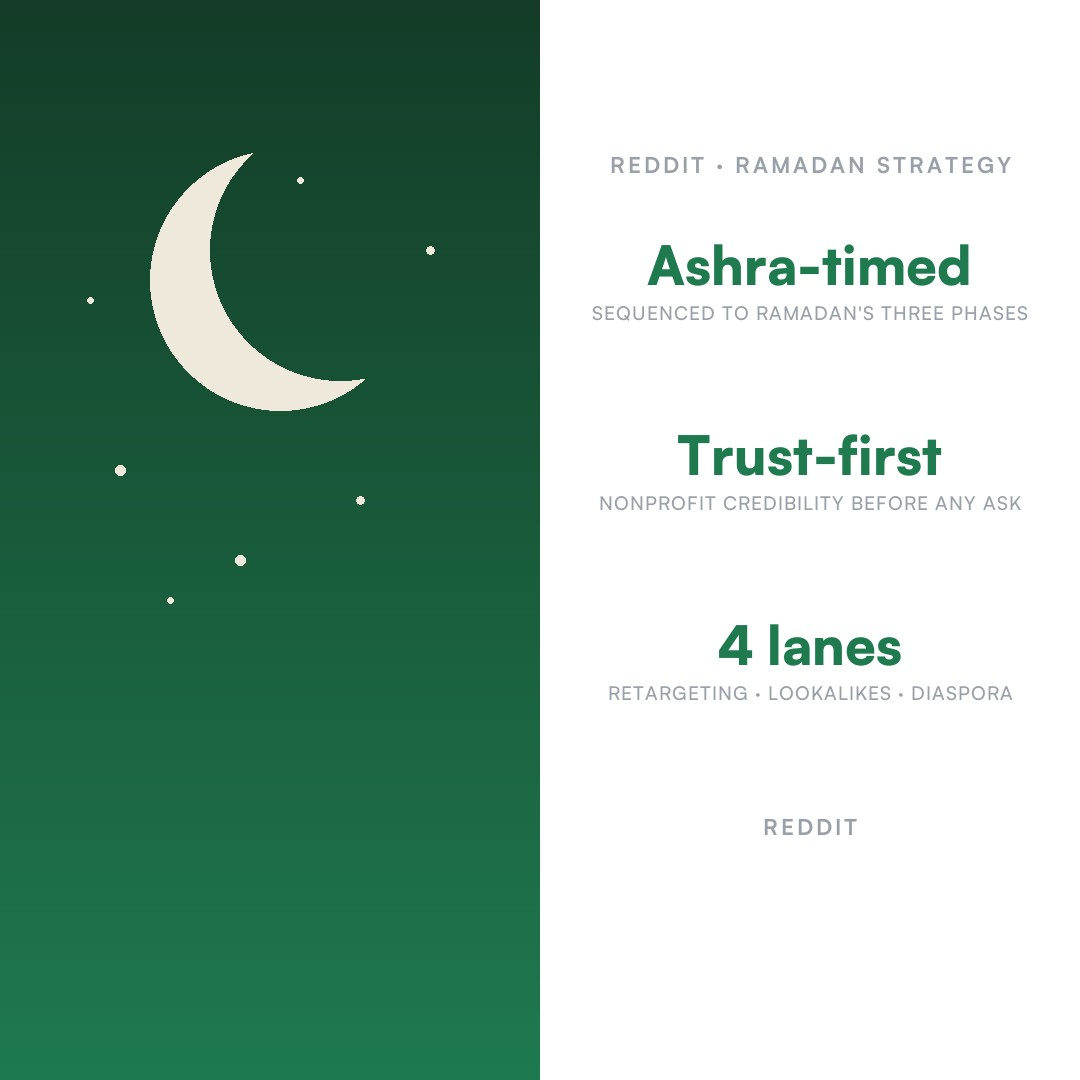
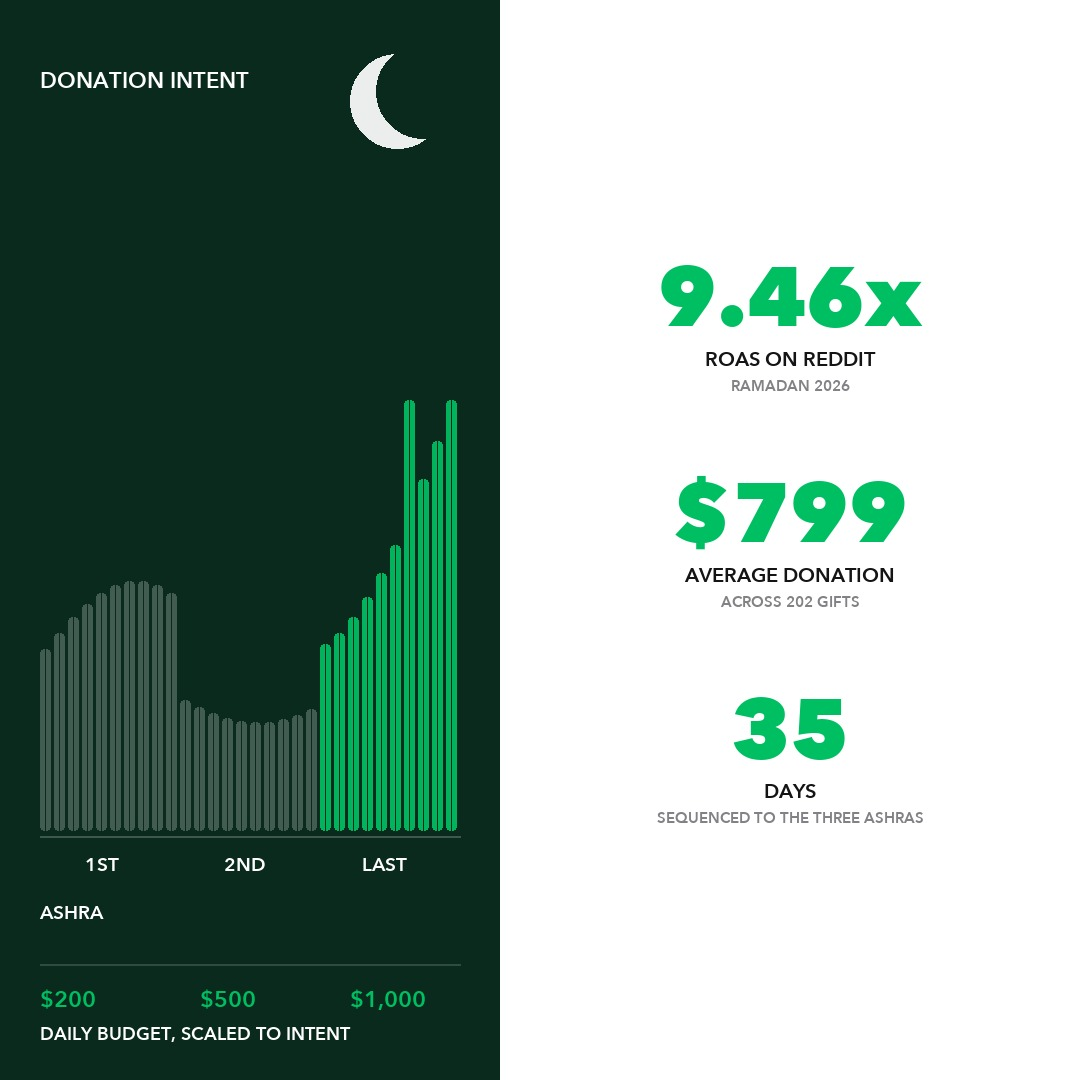
fix: remove every trace of the nonprofit client, and publish the results
The case study said results were the foundation's to publish, so the page
carried no figures at all. The campaign wrap-up gives us the numbers from the
spend we managed, so the page now shows them while the client stays unnamed.

RESULTS ADDED
35 days across Reddit and TikTok, Feb 16 - Mar 22 2026. Reddit $17,060 spend
-> 202 donations, $161,440 raised, 9.46x. TikTok $7,057 -> 26 donations,
$18,089, 2.56x. Blended 7.44x on $24,117. Hero stats and the index card updated
to match. Added a "what we would change" section, because the TikTok gap is
explained by running Reddit statics on a vertical-video platform and that is
worth saying out loud.

CONFIDENTIALITY - three real leaks, all live until now
1. /audit displayed three of the client's ad creatives. One of them reads
   "matched dollar to dollar by The Citizens Foundation USA" and carries their
   donation URL in plain text. Swapped for non-client creatives.
2. those files were named tcf-trust.jpg, tcf-spiritual.jpg, tcf-trust2.jpg and
   sat at guessable public URLs whether or not a page linked them. Deleted,
   along with the .webp variants.
3. the case study's own stylesheet defined --tcf-green and referenced it ten
   times, naming the client in the page source. Renamed --nonprofit-green.

A grep for the client name across every live page now returns nothing.

Cover rebuilt from campaign data rather than their creatives: donation intent
across the three Ashras with the budget ladder underneath, which is the
[…]

diff --git a/work/education-nonprofit.html b/work/education-nonprofit.html
@@ -35,7 +35,7 @@
 </script>
   <style>
     *, *::before, *::after { box-sizing: border-box; margin: 0; padding: 0; }
-    :root { --purple: #5500DD; --dark: #0d0d0d; --gray-500: #6b7280; --gray-200: #e5e7eb; --gray-100: #f3f4f6; --tcf-green: #1F7A4F; }
+    :root { --purple: #5500DD; --dark: #0d0d0d; --gray-500: #6b7280; --gray-200: #e5e7eb; --gray-100: #f3f4f6; --nonprofit-green: #1F7A4F; }
     body { font-family: 'Satoshi', system-ui, sans-serif; color: var(--dark); background: #fff; -webkit-font-smoothing: antialiased; }
     nav { position: sticky; top: 0; z-index: 100; background: rgba(255,255,255,0.95); backdrop-filter: blur(10px); border-bottom: 1px solid var(--gray-200); padding: 0 24px; height: 60px; display: flex; align-items: center; justify-content: space-between; }
     .nav-logo { font-size: 15px; font-variation-settings: "wdth" 125, "wght" 800; color: var(--dark); text-decoration: none; letter-spacing: -0.02em; }
@@ -51,9 +51,9 @@
     .cs-hero { position: relative; overflow: hidden; background: #ffffff; padding: 40px 24px 56px; }
     .cs-hero::before { content:''; position:absolute; top:-60px; left:50%; transform:translateX(-50%); width:1200px; height:560px; background: radial-gradient(ellipse 520px 360px at 28% 45%, rgba(31,122,79,0.16) 0%, transparent 60%), radial-gradient(ellipse 420px 320px at 72% 58%, rgba(85,0,221,0.10) 0%, transparent 62%); pointer-events:none; z-index:0; }
     .cs-hero-inner { position: relative; z-index: 1; max-width: 1100px; margin: 0 auto; display: grid; grid-template-columns: 1fr 1fr; gap: 64px; align-items: center; }
-    .cs-tag { display: inline-block; font-size: 13px; font-weight: 700; letter-spacing: 0.02em; color: var(--tcf-green); background: rgba(31,122,79,0.08); border: 1px solid rgba(31,122,79,0.25); border-radius: 100px; padding: 5px 14px; margin-bottom: 18px; }
+    .cs-tag { display: inline-block; font-size: 13px; font-weight: 700; letter-spacing: 0.02em; color: var(--nonprofit-green); background: rgba(31,122,79,0.08); border: 1px solid rgba(31,122,79,0.25); border-radius: 100px; padding: 5px 14px; margin-bottom: 18px; }
     .cs-hero h1 { font-size: clamp(28px, 3.5vw, 44px); font-weight: 900; color: #0a0a0a; line-height: 1.1; letter-spacing: -0.03em; margin-bottom: 16px; }
-    .cs-hero h1 em { font-family: 'Playfair Display', Georgia, serif; font-style: italic; color: var(--tcf-green); -webkit-text-fill-color: var(--tcf-green); }
+    .cs-hero h1 em { font-family: 'Playfair Display', Georgia, serif; font-style: italic; color: var(--nonprofit-green); -webkit-text-fill-color: var(--nonprofit-green); }
     .cs-hero-desc { font-size: 17px; color: #444; line-height: 1.6; }
     .cs-hero-img { border-radius: 20px; overflow: hidden; box-shadow: 0 20px 60px -20px rgba(0,0,0,0.25); }
     .cs-hero-img img { width: 100%; display: block; }
@@ -63,7 +63,7 @@
     .cs-stat { padding: 30px 24px; background: var(--gray-100); }
     .cs-stat:first-child { border-radius: 16px 0 0 16px; }
     .cs-stat:last-child { border-radius: 0 16px 16px 0; }
-    .cs-stat .num { font-size: clamp(22px, 2.4vw, 30px); font-weight: 900; letter-spacing: -0.02em; color: var(--tcf-green); display: block; margin-bottom: 6px; }
+    .cs-stat .num { font-size: clamp(22px, 2.4vw, 30px); font-weight: 900; letter-spacing: -0.02em; color: var(--nonprofit-green); display: block; margin-bottom: 6px; }
     .cs-stat .lbl { font-size: 14px; font-weight: 600; color: var(--gray-500); line-height: 1.4; }
 
     .cs-body { max-width: 800px; margin: 0 auto; padding: 40px 24px 80px; }
@@ -73,9 +73,9 @@
     .cs-section h3 { font-size: 17px; font-weight: 800; color: var(--dark); margin: 24px 0 10px; letter-spacing: -0.01em; }
     .cs-section ul { padding-left: 0; list-style: none; display: flex; flex-direction: column; gap: 10px; }
     .cs-section ul li { font-size: 16px; line-height: 1.6; color: #333; padding-left: 22px; position: relative; }
-    .cs-section ul li::before { content: ''; position: absolute; left: 0; top: 9px; width: 6px; height: 6px; border-radius: 50%; background: var(--tcf-green); }
+    .cs-section ul li::before { content: ''; position: absolute; left: 0; top: 9px; width: 6px; height: 6px; border-radius: 50%; background: var(--nonprofit-green); }
 
-    .cs-note { max-width: 800px; margin: 0 auto 40px; padding: 16px 20px; background: #f6faf7; border: 1px solid rgba(31,122,79,0.25); border-left: 4px solid var(--tcf-green); border-radius: 8px; }
+    .cs-note { max-width: 800px; margin: 0 auto 40px; padding: 16px 20px; background: #f6faf7; border: 1px solid rgba(31,122,79,0.25); border-left: 4px solid var(--nonprofit-green); border-radius: 8px; }
     .cs-note p { font-size: 14.5px; line-height: 1.6; color: #34433c; margin: 0; }
 
     .cs-insight { max-width: 800px; margin: 0 auto 48px; padding: 28px 32px; background: #0a1f16; border-radius: 16px; }
@@ -85,14 +85,14 @@
     /* Ashra timeline */
     .timeline { margin-top: 18px; display: flex; flex-direction: column; gap: 12px; }
     .tl-row { display: grid; grid-template-columns: 150px 1fr; gap: 18px; align-items: start; border: 1.5px solid var(--gray-200); border-radius: 14px; padding: 16px 18px; }
-    .tl-phase { font-size: 14px; font-weight: 800; color: var(--tcf-green); }
+    .tl-phase { font-size: 14px; font-weight: 800; color: var(--nonprofit-green); }
     .tl-phase span { display: block; font-size: 12px; font-weight: 600; color: var(--gray-500); margin-top: 3px; }
     .tl-body { font-size: 14.5px; line-height: 1.55; color: #333; }
     .tl-body strong { color: var(--dark); }
 
     .pillar-grid { display: grid; grid-template-columns: 1fr 1fr; gap: 16px; margin-top: 18px; }
     .pillar-card { border: 1.5px solid var(--gray-200); border-radius: 16px; padding: 22px 24px; }
-    .pillar-card .m-tag { font-size: 12px; font-weight: 800; letter-spacing: 0.04em; text-transform: uppercase; color: var(--tcf-green); margin-bottom: 8px; }
+    .pillar-card .m-tag { font-size: 12px; font-weight: 800; letter-spacing: 0.04em; text-transform: uppercase; color: var(--nonprofit-green); margin-bottom: 8px; }
     .pillar-card h3 { margin: 0 0 8px; font-size: 16px; }
     .pillar-card p { font-size: 14.5px; line-height: 1.6; color: #444; margin: 0; }
 
@@ -111,14 +111,14 @@
     .cs-related { display: grid; grid-template-columns: 1fr 1fr; gap: 16px; }
     .cs-related a { display: block; padding: 20px 22px; border: 1.5px solid var(--gray-200); border-radius: 16px; text-decoration: none; color: inherit; transition: box-shadow 0.2s, transform 0.2s; }
     .cs-related a:hover { box-shadow: 0 8px 28px rgba(0,0,0,0.08); transform: translateY(-2px); }
-    .rel-label { font-size: 12px; font-weight: 700; color: var(--tcf-green); margin-bottom: 6px; }
+    .rel-label { font-size: 12px; font-weight: 700; color: var(--nonprofit-green); margin-bottom: 6px; }
     .rel-title { font-size: 16px; font-weight: 800; margin-bottom: 8px; }
     .rel-stat { font-size: 14px; color: var(--gray-500); font-weight: 600; }
 
     .cs-cta { max-width: 800px; margin: 0 auto; text-align: center; padding: 8px 24px; }
     .cs-cta h3 { font-size: 24px; font-weight: 900; letter-spacing: -0.02em; margin-bottom: 10px; }
     .cs-cta p { font-size: 16px; color: var(--gray-500); margin-bottom: 22px; }
-    .cs-cta a { display: inline-block; background: var(--tcf-green); color: #fff; font-weight: 700; padding: 14px 30px; border-radius: 100px; text-decoration: none; }
+    .cs-cta a { display: inline-block; background: var(--nonprofit-green); color: #fff; font-weight: 700; padding: 14px 30px; border-radius: 100px; text-decoration: none; }
 
     footer { text-align: center; padding: 40px 24px; border-top: 1px solid var(--gray-200); color: var(--gray-500); font-size: 14px; }
     footer a { color: var(--gray-500); }
@@ -236,7 +236,7 @@
       <p class="cs-hero-desc">An international education nonprofit runs schools for children overseas, and raises much of its year inside a single month. We built the strategy for its Ramadan program on Reddit — a platform that punishes hard sells and rewards proof. This is the approach: how we sequenced the creative, the offer and the audiences to the rhythm of the month itself.</p>
     </div>
     <div class="cs-hero-img">
-      <img src="/assets/education-nonprofit-cover.jpg" alt="International education nonprofit — Reddit Ramadan giving strategy" loading="eager">
+      <img src="/assets/education-nonprofit-cover.jpg?v=33d1922c" alt="International education nonprofit — Reddit Ramadan giving strategy" loading="eager">
     </div>
   </div>
 </section>
@@ -244,16 +244,16 @@
 <section class="cs-stats">
   <div class="cs-stats-inner">
     <div class="cs-stat">
-      <span class="num">Ashra-timed</span>
-      <span class="lbl">Messaging sequenced to Ramadan's three ten-day phases</span>
+      <span class="num">9.46x</span>
+      <span class="lbl">ROAS on Reddit across the Ramadan campaign</span>
     </div>
     <div class="cs-stat">
-      <span class="num">Trust-first</span>
-      <span class="lbl">US-nonprofit credibility and transparency before any ask</span>
+      <span class="num">$799</span>
+      <span class="lbl">Average donation, across 202 gifts</span>
     </div>
     <div class="cs-stat">
-      <span class="num">4 lanes</span>
-      <span class="lbl">Retargeting · lookalikes · diaspora · Islamic communities</span>
+      <span class="num">35 days</span>
+      <span class="lbl">Sequenced to Ramadan's three Ashras</span>
     </div>
   </div>
 </section>
@@ -261,12 +261,12 @@
 <div class="cs-body">
 
   <div class="cs-note">
-    <p><strong>A note on this one.</strong> This is the strategy and creative system we built for this nonprofit's Ramadan program — the approach, not a results report. Donation totals from a Ramadan appeal are the foundation's to publish, not ours, so you won't find performance figures here.</p>
+    <p><strong>A note on this one.</strong> The nonprofit is not named here, at its own preference. The figures on this page are from the campaign we ran: the spend we managed and the return it produced.</p>
   </div>
 
   <div class="cs-section">
     <h2>The challenge</h2>
-    <p>an international education nonprofit raises for a cause that lives on the other side of the world: schools educating children overseas. For a US audience — and the diaspora giving from abroad — the first question is never "how much," it's "can I trust where this goes." Ramadan compounds that. It's the most important giving month of the year, and donation intent doesn't sit flat across it; it climbs, dips, then spikes hard in the final ten nights.</p>
+    <p>The nonprofit raises for a cause that lives on the other side of the world: schools educating children overseas. For a US audience — and the diaspora giving from abroad — the first question is never "how much," it's "can I trust where this goes." Ramadan compounds that. It's the most important giving month of the year, and donation intent doesn't sit flat across it; it climbs, dips, then spikes hard in the final ten nights.</p>
     <p>Reddit adds one more constraint. It's a skeptical platform. The hard-sell donation ad that works on Facebook gets ignored, or worse, called out. To raise here you have to earn the click before you ask for the gift.</p>
   </div>
 
@@ -329,8 +329,30 @@
   </div>
 
   <div class="cs-section">
-    <h2>How we planned to measure it</h2>
-    <p>Because donation results belong to the foundation, here's how the program was built to be judged rather than the outcome. Budget split between broad prospecting and retargeting, weighted toward the warm audiences that convert. Intent read against the Ashra calendar, so a quiet Second Ashra was expected, not a red flag. And a running test between the "give once" and "give nightly" asks to learn which framing each audience responded to for the next season.</p>
+    <h2>Results</h2>
+    <p>The campaign ran 35 days across Reddit and TikTok, February 16 to March 22, 2026.</p>
+    <div class="cs-results-grid">
+      <div class="cs-result-card">
+        <div class="platform">Reddit</div>
+        <div class="metric">9.46x</div>
+        <div class="metric-label">Return on ad spend</div>
+        <div class="detail">$17,060 spend &middot; 202 donations &middot; $161,440 raised &middot; $799 average gift</div>
+      </div>
+      <div class="cs-result-card">
+        <div class="platform">TikTok</div>
+        <div class="metric">2.56x</div>
+        <div class="metric-label">Return on ad spend</div>
+        <div class="detail">$7,057 spend &middot; 26 donations &middot; $18,089 raised &middot; 4.33x on retargeting</div>
+      </div>
+    </div>
+    <p style="margin-top:20px;">Across both platforms, <strong>$24,117 in spend returned $179,529 in donations &mdash; a blended 7.44x</strong>. Reddit carried the campaign, at nearly four times TikTok's return.</p>
+    <p>The Ashra sequencing showed up in the daily numbers. Budget scaled $200 a day at launch, to $500 mid-campaign, to $1,000 a night across the final ten nights, and the peak ROAS days landed exactly where the calendar said they would &mdash; Laylatul Qadr, with the donation match running.</p>
+    <p>Retargeting was the strongest ad group on both platforms. On TikTok it produced 58% of donations and 74% of donation value on a minority of the spend.</p>
+  </div>
+
+  <div class="cs-section">
+    <h2>What we would change</h2>
+    <p>Every TikTok ad was a Reddit static repurposed. That is the whole explanation for the gap between 9.46x and 2.56x. The audience converts and the funnel works, but the format was wrong for the platform. Native vertical video is the obvious next move, and it is what we would build first for the next Ramadan.</p>
   </div>
 
   <div class="cs-section">

diff --git a/audit.html b/audit.html
@@ -880,14 +880,14 @@ body {
 
     <div class="bento-grid reveal">
       <img src="./assets/lipstick-closeup.png" alt="Lipstick closeup" class="bento-tall" loading="lazy">
-      <img src="./assets/tcf-spiritual.jpg" alt="TCF Zakat campaign" class="bento-square" loading="lazy">
+      <img src="./assets/3d-ai-studio-brand.jpg" alt="AI SaaS brand campaign creative" class="bento-square" loading="lazy">
       <img src="./assets/lipstick-hands.jpg" alt="Lipstick hands" loading="lazy">
       <img src="./assets/handbag-walk.jpg" alt="Handbag walk" loading="lazy">
-      <img src="./assets/tcf-trust.jpg" alt="TCF trust campaign" class="bento-square" loading="lazy">
+      <img src="./assets/B2B_SaaS_Ads_HMTIB0O.jpg" alt="B2B SaaS ad creative" class="bento-square" loading="lazy">
       <img src="./assets/lipstick-spill.jpg" alt="Lipstick product spill" loading="lazy">
       <img src="./assets/lipstick-studio.jpg" alt="Lipstick studio shot" loading="lazy">
       <img src="./assets/handbag-street.png" alt="Handbag NYC street" loading="lazy">
-      <img src="./assets/tcf-trust2.jpg" alt="TCF campaign creative" class="bento-square" loading="lazy">
+      <img src="./assets/B2B_SaaS_Ads_In_a_minimalist_3D_style_three_abstract_shapes_LlqzK8tf.jpg" alt="Minimalist B2B SaaS ad creative" class="bento-square" loading="lazy">
     </div>
 
     <p class="gallery-caption reveal" style="color:var(--text-dark-muted);">Product shoots. UGC. 3D animation. Performance static. All directed by strategists who run the campaigns.</p>

diff --git a/case-studies.html b/case-studies.html
@@ -382,12 +382,12 @@
 
   <a href="/work/education-nonprofit" class="cs-card" data-cat="nonprofit">
     <div class="cs-card-img" style="background:#0a1f16;">
-      <img src="/assets/education-nonprofit-cover.jpg" alt="International education nonprofit Ramadan Reddit strategy case study" loading="lazy">
+      <img src="/assets/education-nonprofit-cover.jpg?v=33d1922c" alt="International education nonprofit Ramadan Reddit strategy case study" loading="lazy">
     </div>
     <div class="cs-card-body">
       <div class="cs-card-tag"><span class="tag-nonprofit">Nonprofit</span><span class="tag-nonprofit" style="background:rgba(16,185,129,0.05);">Reddit-Native</span></div>
-      <div class="cs-card-title">International Education Nonprofit: A Reddit-Native Ramadan Giving Engine</div>
-      <div class="cs-card-desc">The strategy behind a Ramadan donation program timed to the three Ashras — trust-first creative for a US nonprofit reaching donors and the diaspora on Reddit. Approach, not a results report.</div>
+      <div class="cs-card-title">International Education Nonprofit: 9.46x ROAS on a Ramadan Giving Engine</div>
+      <div class="cs-card-desc">A Ramadan donation program timed to the three Ashras, with budget scaled to intent across the final ten nights. $24K in spend returned $179.5K in donations.</div>
       <div class="cs-card-link">Read case study →</div>
     </div>
   </a>
